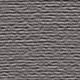
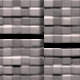
changed ground image and added new dimensions vector on Entity

diff --git a/assets/js/game.js b/assets/js/game.js
@@ -40,6 +40,7 @@ var Entity = function Entity() {
 
     this._position = new Vector();
     this._maxVelocity = new Vector(100, 100);
+    this._dimensions = new Vector();
 };
 
 Entity.prototype.setVelocity = function(newVelocity) {
@@ -56,6 +57,10 @@ Entity.prototype.setAcceleration = function(newAcceleration) {
 
 Entity.prototype.setPosition = function(newPosition) {
     this._position = newPosition;
+};
+
+Entity.prototype.setDimensions = function(newDimensions) {
+    this._dimensions = newDimensions;
 };
 
 Entity.prototype.update = function() {
@@ -233,6 +238,7 @@ function init() {
         plane = createPlane();
 
         ground = createGround();
+        conzole.wat
 
         createjs.Ticker.timingMode = createjs.Ticker.RAF;
 
